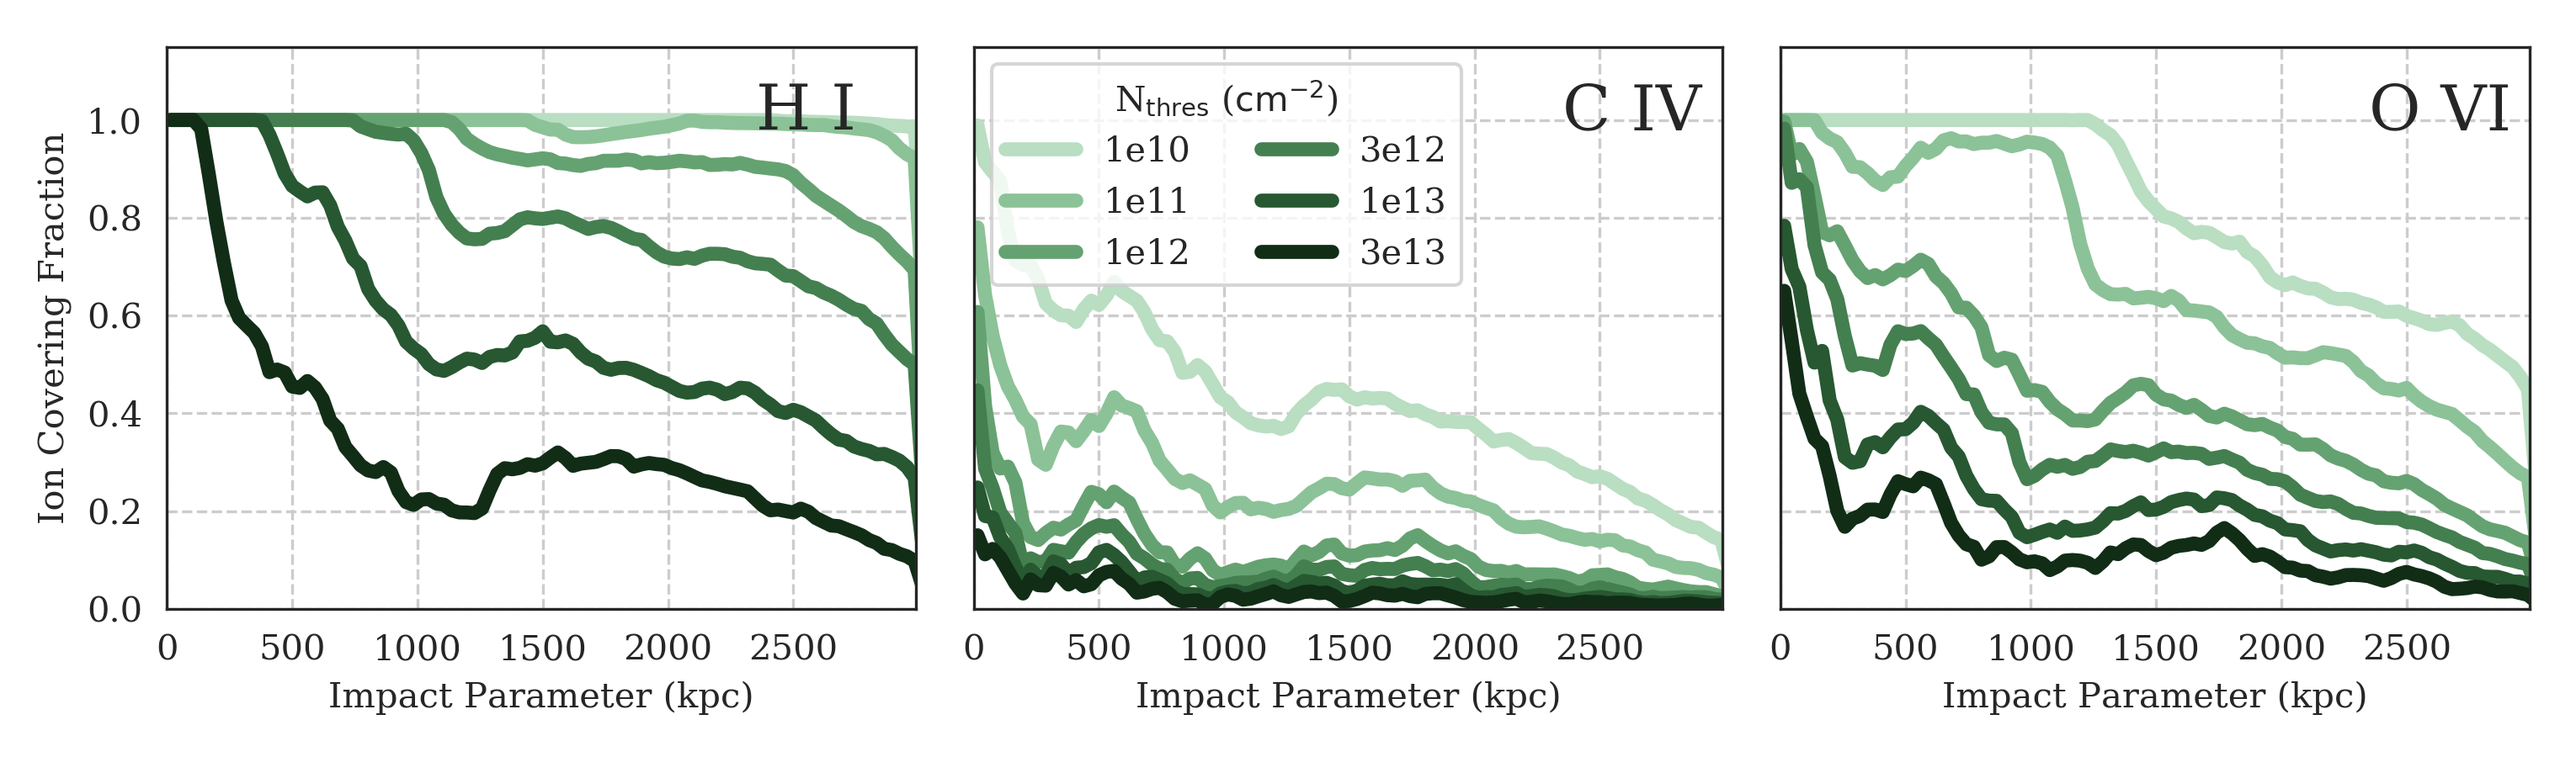
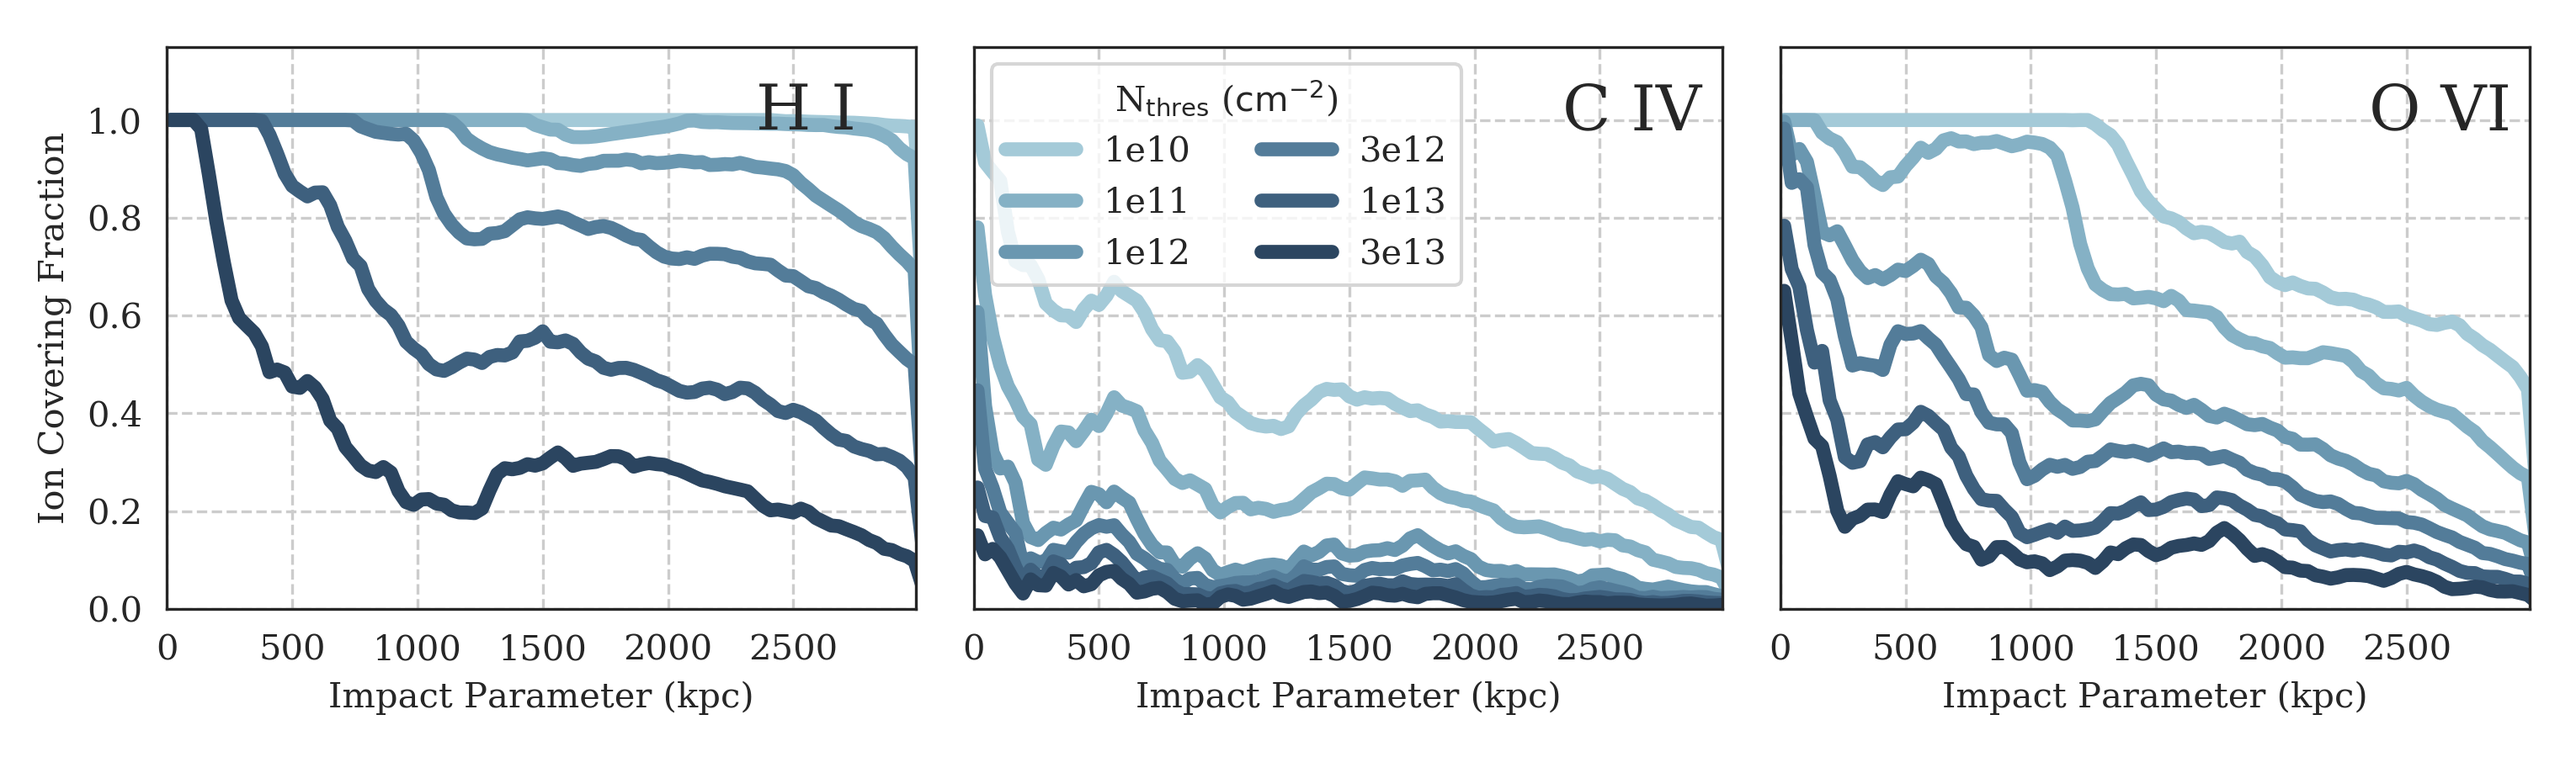
changing colormap on multipanel column halo plot

diff --git a/plot_multipanel_halo_ion.py b/plot_multipanel_halo_ion.py
@@ -42,6 +42,8 @@ def multipanel_ion_plot(sim, output, ion_list, plot_type, bin_type):
         ylabel = 'Ion Column Density ($\mathrm{cm}^{-2}$)'
         yfield = 'median_col'
         colors = ['black', 'black', 'black', 'black']
+        palette = sns.cubehelix_palette(5, start=.5, rot=-.75, reverse = True)
+        colors = [palette[0], palette[1], palette[2], palette[3]]
         linewidth = 2.5
 
         
@@ -95,7 +97,7 @@ def multipanel_ion_plot(sim, output, ion_list, plot_type, bin_type):
             max_counts = counts.max()
             #### warning: reshape counts are hard-coded
             counts = counts.reshape(799, 799)
-            ax.pcolormesh(xbins, ybins, counts, vmin=1e-3, vmax = 0.9*max_counts, cmap='GnBu', norm=LogNorm())
+            ax.pcolormesh(xbins, ybins, counts, vmin=1e-1, vmax = 0.9*max_counts, cmap='binary', norm=LogNorm())
             ipd.add_cluster_observations(ax, ion, color = 'orange')
 
         elif plot_type == 'cfrac':
@@ -114,11 +116,11 @@ output = int(sys.argv[2])
 
 plot_type_list = ['cfrac', 'column']
 plot_type_list = ['column']
-plot_type_list = ['cfrac']
+#plot_type_list = ['cfrac']
 
 ion_list = ['H I', 'C II', 'C III', 'C IV', 'Si II', 'Si III', 'Si IV', 'O VI']
 ion_list = ['H I', 'C IV', 'O VI']
-#ion_list = ['H I', 'O VI']
+ion_list = ['H I', 'O VI']
 
 
 for plot_type in plot_type_list:

diff --git a/plot_cfrac_threshold.py b/plot_cfrac_threshold.py
@@ -22,8 +22,10 @@ def plot_multipanel(output, ion_list, threshold_list, label_list = None, rmax = 
     fn = '/nobackupp2/ibutsky/data/%s/%s.%06d_column_data.h5'%(sim, sim, output)
     
     palette = sns.cubehelix_palette(len(threshold_list)+2, start=.5, rot=-.75, reverse=True)
-    palette = sns.cubehelix_palette(len(threshold_list)+2, reverse=True)
-    palette = sns.cubehelix_palette(len(threshold_list)+2, start=2, rot=0, dark=0, light = 0.95)
+    palette = sns.cubehelix_palette(len(threshold_list)+2, reverse=True) #pink
+    palette = sns.cubehelix_palette(len(threshold_list)+2, start=2, rot=0, dark=0, light = 0.95) #green
+    palette = sns.cubehelix_palette(len(threshold_list)+2, start=2.8, rot=-.1) #blue
+
     palette = palette[1:-1]
 
     if label_list == None:

diff --git a/plot_gas_temperature_profile.py b/plot_gas_temperature_profile.py
@@ -55,8 +55,8 @@ ax.set_xlim(0.05, 3)
 #ax.set_ylim(0, 1.1)
 ax.set_yscale('log')
 ax.set_ylim(1e-2, 2)
-fs = 14
-ax.set_xlabel('$\mathrm{R\ /\ R}_{200}$')#, fontsize = fs)
-ax.set_ylabel('$\mathrm{Gas\ Mass\ Fraction}$')#, fontsize = fs)
+fs = 16
+ax.set_xlabel('$\mathrm{R\ /\ R}_{200}$', fontsize = fs)
+ax.set_ylabel('$\mathrm{Gas\ Mass\ Fraction}$', fontsize = fs)
 fig.tight_layout()
 plt.savefig('temperature_mass_profile_%i.png'%(output), dpi = 300)
